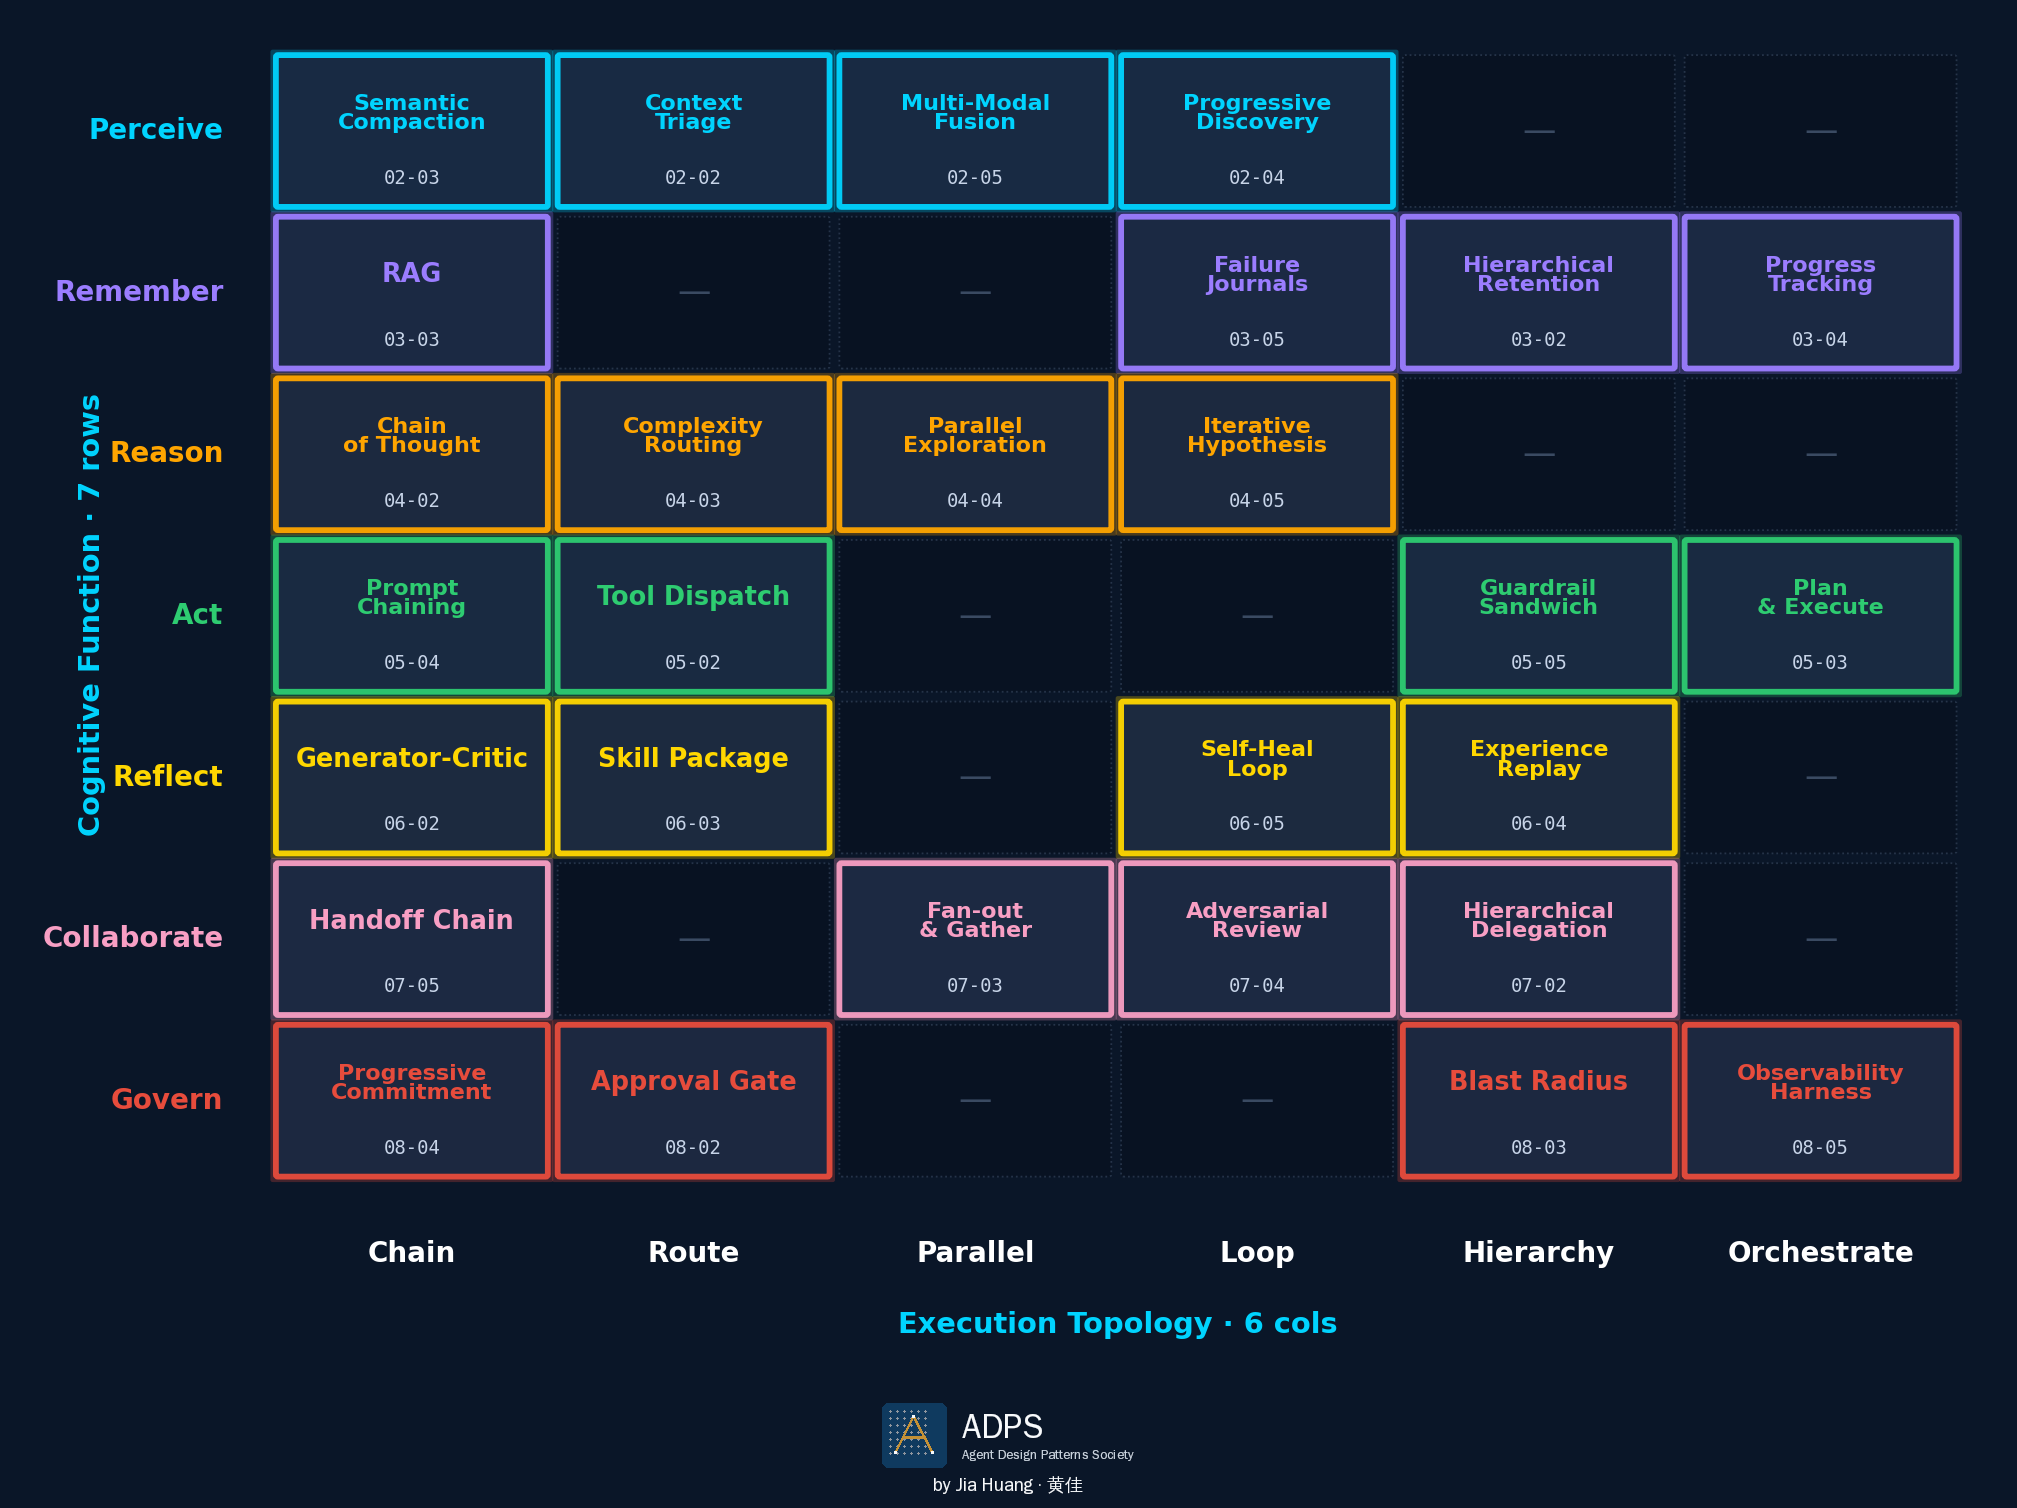
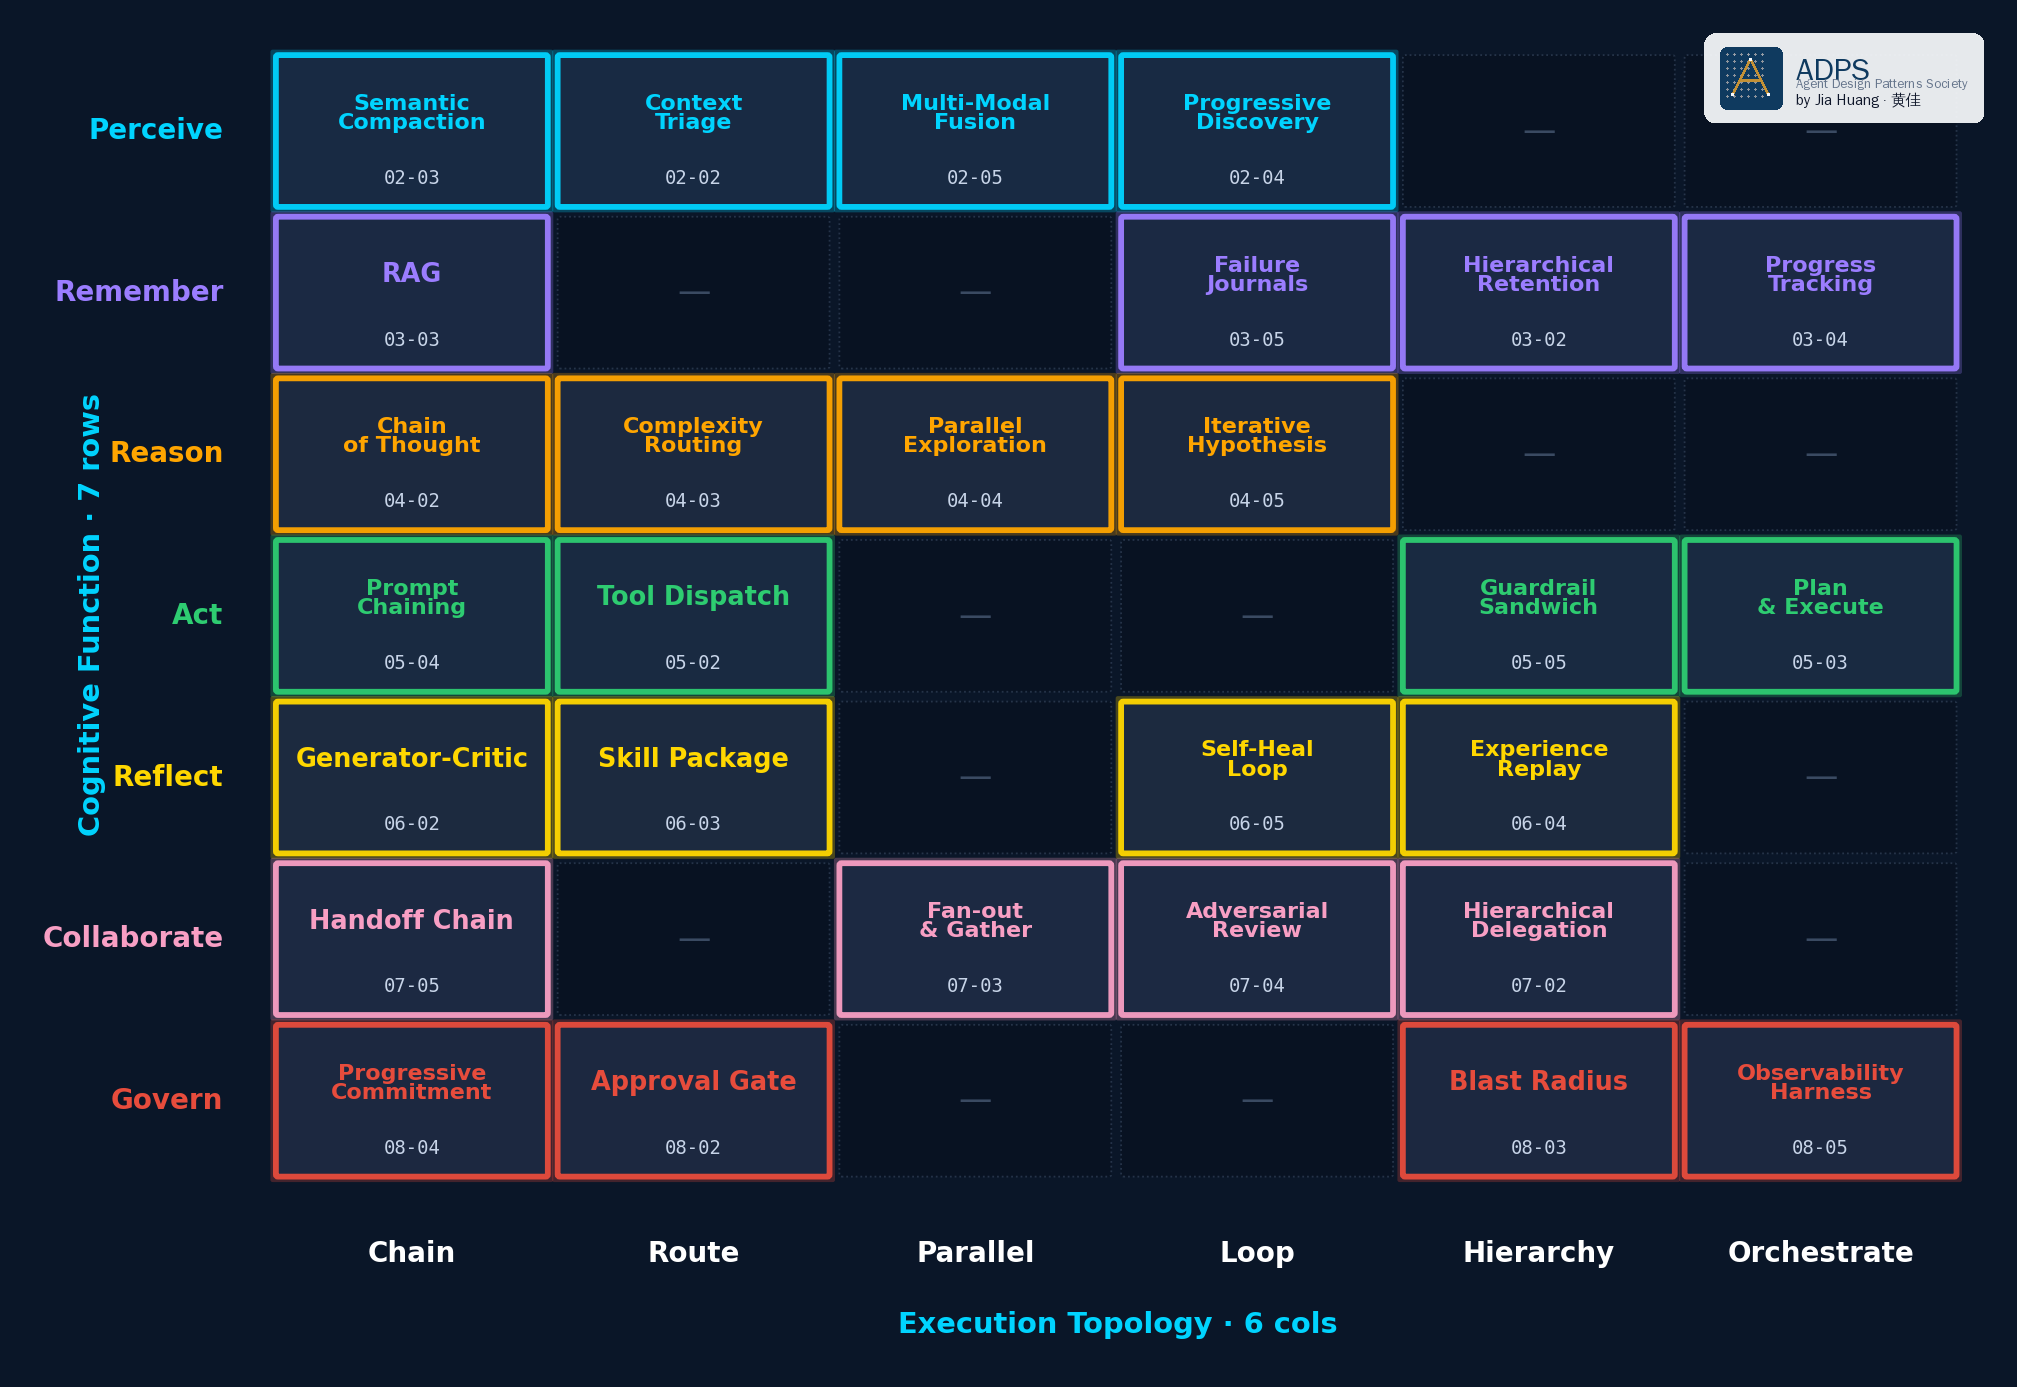
Move docs matrix watermark to top-right corner
Prior placement (bottom footer strip) added canvas extension. Refresh
to compact watermark tile overlaid in top-right corner where both
matrices have blank space above the title bar.

add_watermark.py v3: adds --position flag (tr/br/tl/bl) for corner
selection. Default position 'tr' works for docs/matrix.png and
docs/matrix-clean.png; render_matrix.py unchanged (uses default).

diff --git a/docs/add_watermark.py b/docs/add_watermark.py
@@ -1,13 +1,13 @@
 """
-ADPS 双轴矩阵图片水印工具 · v2 (footer 版)
+ADPS 双轴矩阵图片水印工具 · v3 (右上角版)
 ==========================================
-在源图底部扩一条 footer 条，把 ADPS logo + "by Jia Huang · 黄佳" 水印
-放在 footer 内。不覆盖任何内容格。视觉与 adps-logo.svg 一致。
+在源图右上角空白处叠加水印。不改变画布尺寸,直接 overlay。
+Layout: [icon] ADPS wordmark(单行) + "by Jia Huang · 黄佳"(第二行,右对齐)
 
-用法：
+用法:
     python3 add_watermark.py <input.png> <output.png>
 
-或从其它脚本导入：
+或从其它脚本导入:
     from add_watermark import add_watermark
     add_watermark("in.png", "out.png")
 """
@@ -15,7 +15,7 @@ from pathlib import Path
 from PIL import Image, ImageDraw, ImageFont
 import sys
 
-# 配色：与 adps-logo.svg 一致
+# 配色: 与 adps-logo.svg 一致
 NAVY = (15, 58, 95)          # #0f3a5f
 GOLD = (196, 145, 54)        # #c49136
 INK_LIGHT = (248, 250, 252)  # #f8fafc
@@ -38,11 +38,11 @@ def _f(size):
 
 
 def detect_bg_color(img: Image.Image):
-    """从图片四角采样，判定底色（深色 / 浅色）。返回 (bg_rgb, is_dark)。"""
+    """四角采样判定底色。返回 (bg_rgb, is_dark)。"""
     W, H = img.size
     if img.mode != "RGBA":
         img = img.convert("RGBA")
-    # 取四角 10×10 块的平均
+    # 只采样左下 + 右下 corners（避开右上角本身,因为我们要在那里放水印）
     corners = [(0, 0), (W - 10, 0), (0, H - 10), (W - 10, H - 10)]
     r_sum, g_sum, b_sum, cnt = 0, 0, 0, 0
     for cx, cy in corners:
@@ -57,123 +57,143 @@ def detect_bg_color(img: Image.Image):
     return (r, g, b), luminance < 128
 
 
-def build_footer_watermark(width: int, is_dark_bg: bool, scale: float = 1.0):
+def build_watermark_tile(is_dark_bg: bool, scale: float = 1.0):
     """
-    构建一个水平 footer 水印条。宽度 = width，高度自动。
-    is_dark_bg=True 时使用透明底 + 白字。False 时透明底 + 深色字。
+    构建紧凑的右上角水印 tile(RGBA)。
+    Layout:
+      [icon] ADPS
+             Agent Design Patterns Society
+             by Jia Huang · 黄佳
     """
-    icon = int(56 * scale)
-    pad = int(14 * scale)
-    text_gap = int(14 * scale)
+    icon = int(52 * scale)
+    pad_x = int(14 * scale)
+    pad_y = int(12 * scale)
+    text_gap_x = int(12 * scale)
+    line_gap = int(4 * scale)
 
-    # 计算文字尺寸
-    f_adps = _f(int(30 * scale))
-    f_sub = _f(int(12 * scale))
-    f_by = _f(int(16 * scale))
+    f_adps = _f(int(26 * scale))
+    f_sub = _f(int(11 * scale))
+    f_by = _f(int(13 * scale))
 
-    # 元素排布：[icon] [ADPS wordmark stack]     [by Jia Huang · 黄佳]
-    # 但按用户要求：ADPS logo 在上，"by Jia Huang" 在下，我们纵向压两行
-    # 布局改成：[icon + ADPS 单行]  换行  [by Jia Huang · 黄佳 居中]
-
-    # Line 1 宽度：icon + gap + "ADPS" text width
+    # 测量文本
     tmp = Image.new("RGBA", (10, 10))
     d = ImageDraw.Draw(tmp)
-    adps_bbox = d.textbbox((0, 0), "ADPS", font=f_adps)
-    adps_w = adps_bbox[2] - adps_bbox[0]
-    sub_bbox = d.textbbox((0, 0), "Agent Design Patterns Society", font=f_sub)
-    sub_w = sub_bbox[2] - sub_bbox[0]
-    by_bbox = d.textbbox((0, 0), "by Jia Huang · 黄佳", font=f_by)
-    by_w = by_bbox[2] - by_bbox[0]
+    adps_box = d.textbbox((0, 0), "ADPS", font=f_adps)
+    adps_w, adps_h = adps_box[2] - adps_box[0], adps_box[3] - adps_box[1]
+    sub_box = d.textbbox((0, 0), "Agent Design Patterns Society", font=f_sub)
+    sub_w, sub_h = sub_box[2] - sub_box[0], sub_box[3] - sub_box[1]
+    by_box = d.textbbox((0, 0), "by Jia Huang · 黄佳", font=f_by)
+    by_w, by_h = by_box[2] - by_box[0], by_box[3] - by_box[1]
 
     text_col_w = max(adps_w, sub_w, by_w)
-    line1_w = icon + text_gap + text_col_w
-    footer_h = icon + pad * 2 + int(22 * scale)  # icon + by-line
+    inner_w = icon + text_gap_x + text_col_w
+    inner_h = max(icon, adps_h + line_gap + sub_h + line_gap + by_h)
 
-    footer = Image.new("RGBA", (width, footer_h), (0, 0, 0, 0))
-    fd = ImageDraw.Draw(footer)
+    W = inner_w + pad_x * 2
+    H = inner_h + pad_y * 2
 
-    # 居中起点
-    start_x = (width - line1_w) // 2
-    y0 = pad
+    # 半透明底(浅或深根据 bg)
+    if is_dark_bg:
+        bg_fill = (INK_LIGHT[0], INK_LIGHT[1], INK_LIGHT[2], 235)
+        text_color_primary = NAVY
+        text_color_sub = INK_MUTED
+        text_color_by = INK_DARK
+    else:
+        bg_fill = (255, 255, 255, 235)
+        text_color_primary = NAVY
+        text_color_sub = INK_MUTED
+        text_color_by = INK_DARK
 
-    # 1. Navy 圆角方块 icon
-    fd.rounded_rectangle(
-        [(start_x, y0), (start_x + icon, y0 + icon)],
+    tile = Image.new("RGBA", (W, H), (0, 0, 0, 0))
+    td = ImageDraw.Draw(tile)
+
+    # 圆角背景
+    radius = int(10 * scale)
+    td.rounded_rectangle([(0, 0), (W, H)], radius=radius, fill=bg_fill)
+
+    # icon 位置(垂直居中)
+    icon_x = pad_x
+    icon_y = (H - icon) // 2
+
+    # Navy 圆角方块 icon
+    td.rounded_rectangle(
+        [(icon_x, icon_y), (icon_x + icon, icon_y + icon)],
         radius=int(6 * scale),
         fill=NAVY,
     )
 
-    # 2. dot grid
+    # dot grid
     dot_r = max(1, int(0.9 * scale))
-    dot_spacing = int(6.4 * scale)
-    dot_start = int(7 * scale)
+    dot_spacing = int(6 * scale)
+    dot_start = int(6.5 * scale)
     dot_fill = (INK_LIGHT[0], INK_LIGHT[1], INK_LIGHT[2], 107)
     for row in range(7):
         for col in range(6):
-            cx = start_x + dot_start + col * dot_spacing
-            cy = y0 + dot_start + row * dot_spacing
-            if cx <= start_x + icon - 3 and cy <= y0 + icon - 3:
-                fd.ellipse(
+            cx = icon_x + dot_start + col * dot_spacing
+            cy = icon_y + dot_start + row * dot_spacing
+            if cx <= icon_x + icon - 3 and cy <= icon_y + icon - 3:
+                td.ellipse(
                     [(cx - dot_r, cy - dot_r), (cx + dot_r, cy + dot_r)],
                     fill=dot_fill,
                 )
 
-    # 3. gold "A" mark
-    gold_w = max(2, int(3.0 * scale))
-    def _s(v):  # scale within icon (SVG coords 0-64)
+    # gold "A" mark
+    def _s(v):  # SVG 内部 0-64 缩放
         return int(v * (icon / 64.0))
-    a_left = (start_x + _s(13), y0 + _s(49))
-    a_top = (start_x + _s(31.5), y0 + _s(13))
-    a_right = (start_x + _s(50), y0 + _s(49))
-    a_cross_l = (start_x + _s(21.5), y0 + _s(34.5))
-    a_cross_r = (start_x + _s(41.5), y0 + _s(34.5))
-    fd.line([a_left, a_top], fill=GOLD, width=gold_w)
-    fd.line([a_top, a_right], fill=GOLD, width=gold_w)
-    fd.line([a_cross_l, a_cross_r], fill=GOLD, width=gold_w)
+    gold_w = max(2, int(2.8 * scale))
+    a_left = (icon_x + _s(13), icon_y + _s(49))
+    a_top = (icon_x + _s(31.5), icon_y + _s(13))
+    a_right = (icon_x + _s(50), icon_y + _s(49))
+    a_cross_l = (icon_x + _s(21.5), icon_y + _s(34.5))
+    a_cross_r = (icon_x + _s(41.5), icon_y + _s(34.5))
+    td.line([a_left, a_top], fill=GOLD, width=gold_w)
+    td.line([a_top, a_right], fill=GOLD, width=gold_w)
+    td.line([a_cross_l, a_cross_r], fill=GOLD, width=gold_w)
 
-    # 三个白小方点
-    sq = max(2, int(3.0 * scale))
+    sq = max(2, int(2.8 * scale))
     for cx, cy in [a_left, a_top, a_right]:
-        fd.rectangle(
+        td.rectangle(
             [(cx - sq // 2, cy - sq // 2), (cx + sq // 2, cy + sq // 2)],
             fill=INK_LIGHT,
         )
 
-    # 4. 右侧文字栈
-    text_x = start_x + icon + text_gap
-    text_color_primary = INK_LIGHT if is_dark_bg else NAVY
-    text_color_sub = (203, 213, 225) if is_dark_bg else INK_MUTED
-    fd.text((text_x, y0 + int(2 * scale)), "ADPS", font=f_adps, fill=text_color_primary)
-    fd.text(
-        (text_x, y0 + int(38 * scale)),
+    # 文字栈
+    text_x = icon_x + icon + text_gap_x
+    total_text_h = adps_h + line_gap + sub_h + line_gap + by_h
+    text_y = (H - total_text_h) // 2
+
+    td.text((text_x, text_y), "ADPS", font=f_adps, fill=text_color_primary)
+    td.text(
+        (text_x, text_y + adps_h + line_gap),
         "Agent Design Patterns Society",
         font=f_sub,
         fill=text_color_sub,
     )
+    td.text(
+        (text_x, text_y + adps_h + line_gap + sub_h + line_gap),
+        "by Jia Huang · 黄佳",
+        font=f_by,
+        fill=text_color_by,
+    )
 
-    # 5. "by Jia Huang · 黄佳" 居中在 footer 底部
-    by_x = (width - by_w) // 2
-    by_y = y0 + icon + int(6 * scale)
-    fd.text((by_x, by_y), "by Jia Huang · 黄佳", font=f_by, fill=text_color_primary)
-
-    return footer, footer_h
+    return tile
 
 
-def add_watermark(src_path: str, dst_path: str):
+def add_watermark(src_path: str, dst_path: str, position: str = "tr"):
     """
-    在源图底部扩一条 footer 条,把水印放里面。
+    在源图指定角落空白处叠加水印。不改变画布尺寸。
+    position: 'tr' 右上角(默认) · 'br' 右下角 · 'tl' 左上角 · 'bl' 左下角
     """
     src = Image.open(src_path).convert("RGBA")
     W, H = src.size
 
     bg_rgb, is_dark = detect_bg_color(src)
-    bg_rgba = bg_rgb + (255,)
 
     # scale 按图宽自动
     if W >= 2200:
-        scale = 1.4
+        scale = 1.5
     elif W >= 1600:
-        scale = 1.15
+        scale = 1.2
     elif W >= 1200:
         scale = 1.0
     elif W >= 900:
@@ -181,24 +201,31 @@ def add_watermark(src_path: str, dst_path: str):
     else:
         scale = 0.7
 
-    footer, footer_h = build_footer_watermark(W, is_dark, scale=scale)
+    tile = build_watermark_tile(is_dark, scale=scale)
+    tw, th = tile.size
 
-    # 新画布 = 原图 + footer 高度
-    new_h = H + footer_h
-    out = Image.new("RGBA", (W, new_h), bg_rgba)
-    out.paste(src, (0, 0), src)
+    margin = int(28 * scale)
+    positions = {
+        "tr": (W - tw - margin, margin),
+        "br": (W - tw - margin, H - th - margin),
+        "tl": (margin, margin),
+        "bl": (margin, H - th - margin),
+    }
+    px, py = positions.get(position, positions["tr"])
 
-    # footer 直接覆盖到底部
-    out.paste(footer, (0, H), footer)
+    out = src.copy()
+    out.paste(tile, (px, py), tile)
 
-    # 存
     out.save(dst_path, "PNG", optimize=True)
-    print(f"Watermarked: {dst_path} ({W}x{H} → {W}x{new_h}, bg={'dark' if is_dark else 'light'} rgb={bg_rgb}, scale={scale})")
+    print(f"Watermarked: {dst_path} ({W}x{H}, tile={tw}x{th}, pos={position}=({px},{py}), bg={'dark' if is_dark else 'light'}, scale={scale})")
 
 
 if __name__ == "__main__":
     if len(sys.argv) < 3:
-        print("用法: python3 add_watermark.py <input.png> <output.png>")
+        print("用法: python3 add_watermark.py <input.png> <output.png> [--position tr|br|tl|bl]")
         sys.exit(1)
-
-    add_watermark(sys.argv[1], sys.argv[2])
+    pos = "tr"
+    for i, arg in enumerate(sys.argv):
+        if arg == "--position" and i + 1 < len(sys.argv):
+            pos = sys.argv[i + 1]
+    add_watermark(sys.argv[1], sys.argv[2], position=pos)